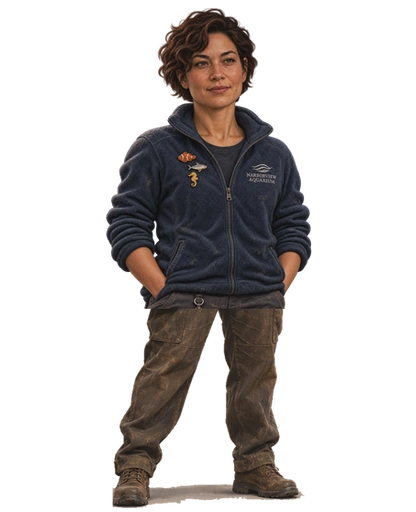
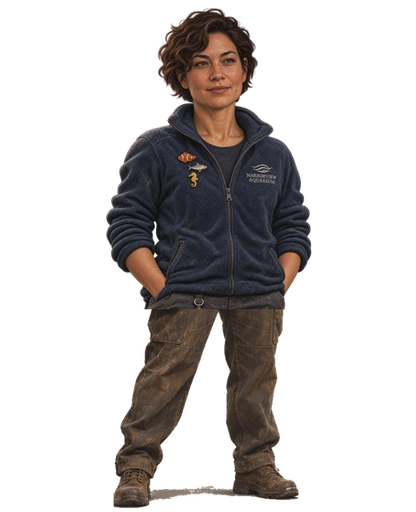
Fix character placement, foreground occlusion, and shoe cutouts
- Move Iris and Deputy Lyle left of the speaker column in Chapter 2 (c2_ship) so Lyle no longer covers the intercom hotspot.
- Move Carmen onto open sunlit floor clear of the writing desk leg in Chapter 3 (c3_house) and strip the painted studio-paper shadow puddle from the foot zone of all packed standing sprites.
- Add foreground table, clipboard, and reel-winder occlusion behind June, Tomas, and Agnes in Chapter 3 (c3_archive) so their legs pass naturally behind the table.
- Fix matching foreground/desk occlusion for Luis in c5_shack, Frank/Stephen/Wen behind the console in c10_station, and Nora clear of the tape machine in one_year.

diff --git a/tools/pack-talk-residents.py b/tools/pack-talk-residents.py
@@ -52,6 +52,18 @@ def cutout(name, bounds):
     holes, _ = ndimage.label(~mask)
     sizes = np.bincount(holes.ravel())
     mask |= (holes > 0) & (sizes[holes] < im.width*im.height*.01)
+    # Strip the painted pale-grey paper cast shadow around the shoes in the foot band.
+    ys_nonzero = np.where(mask.any(axis=1))[0]
+    foot_top = int(ys_nonzero.max() - (ys_nonzero.max() - ys_nonzero.min()) * 0.085)
+    lum = 0.299 * rgb[..., 0] + 0.587 * rgb[..., 1] + 0.114 * rgb[..., 2]
+    sat = rgb.max(axis=2) - rgb.min(axis=2)
+    foot_zone = np.zeros_like(mask)
+    foot_zone[foot_top:, :] = True
+    puddle = foot_zone & (lum > 135) & (sat < 36)
+    mask &= ~puddle
+    labels, _ = ndimage.label(mask)
+    largest = np.bincount(labels.ravel())[1:].argmax() + 1
+    mask = labels == largest
     alpha = Image.fromarray((mask*255).astype(np.uint8)).filter(ImageFilter.GaussianBlur(.65))
     im.putalpha(alpha)
     return im.crop(alpha.getbbox())
